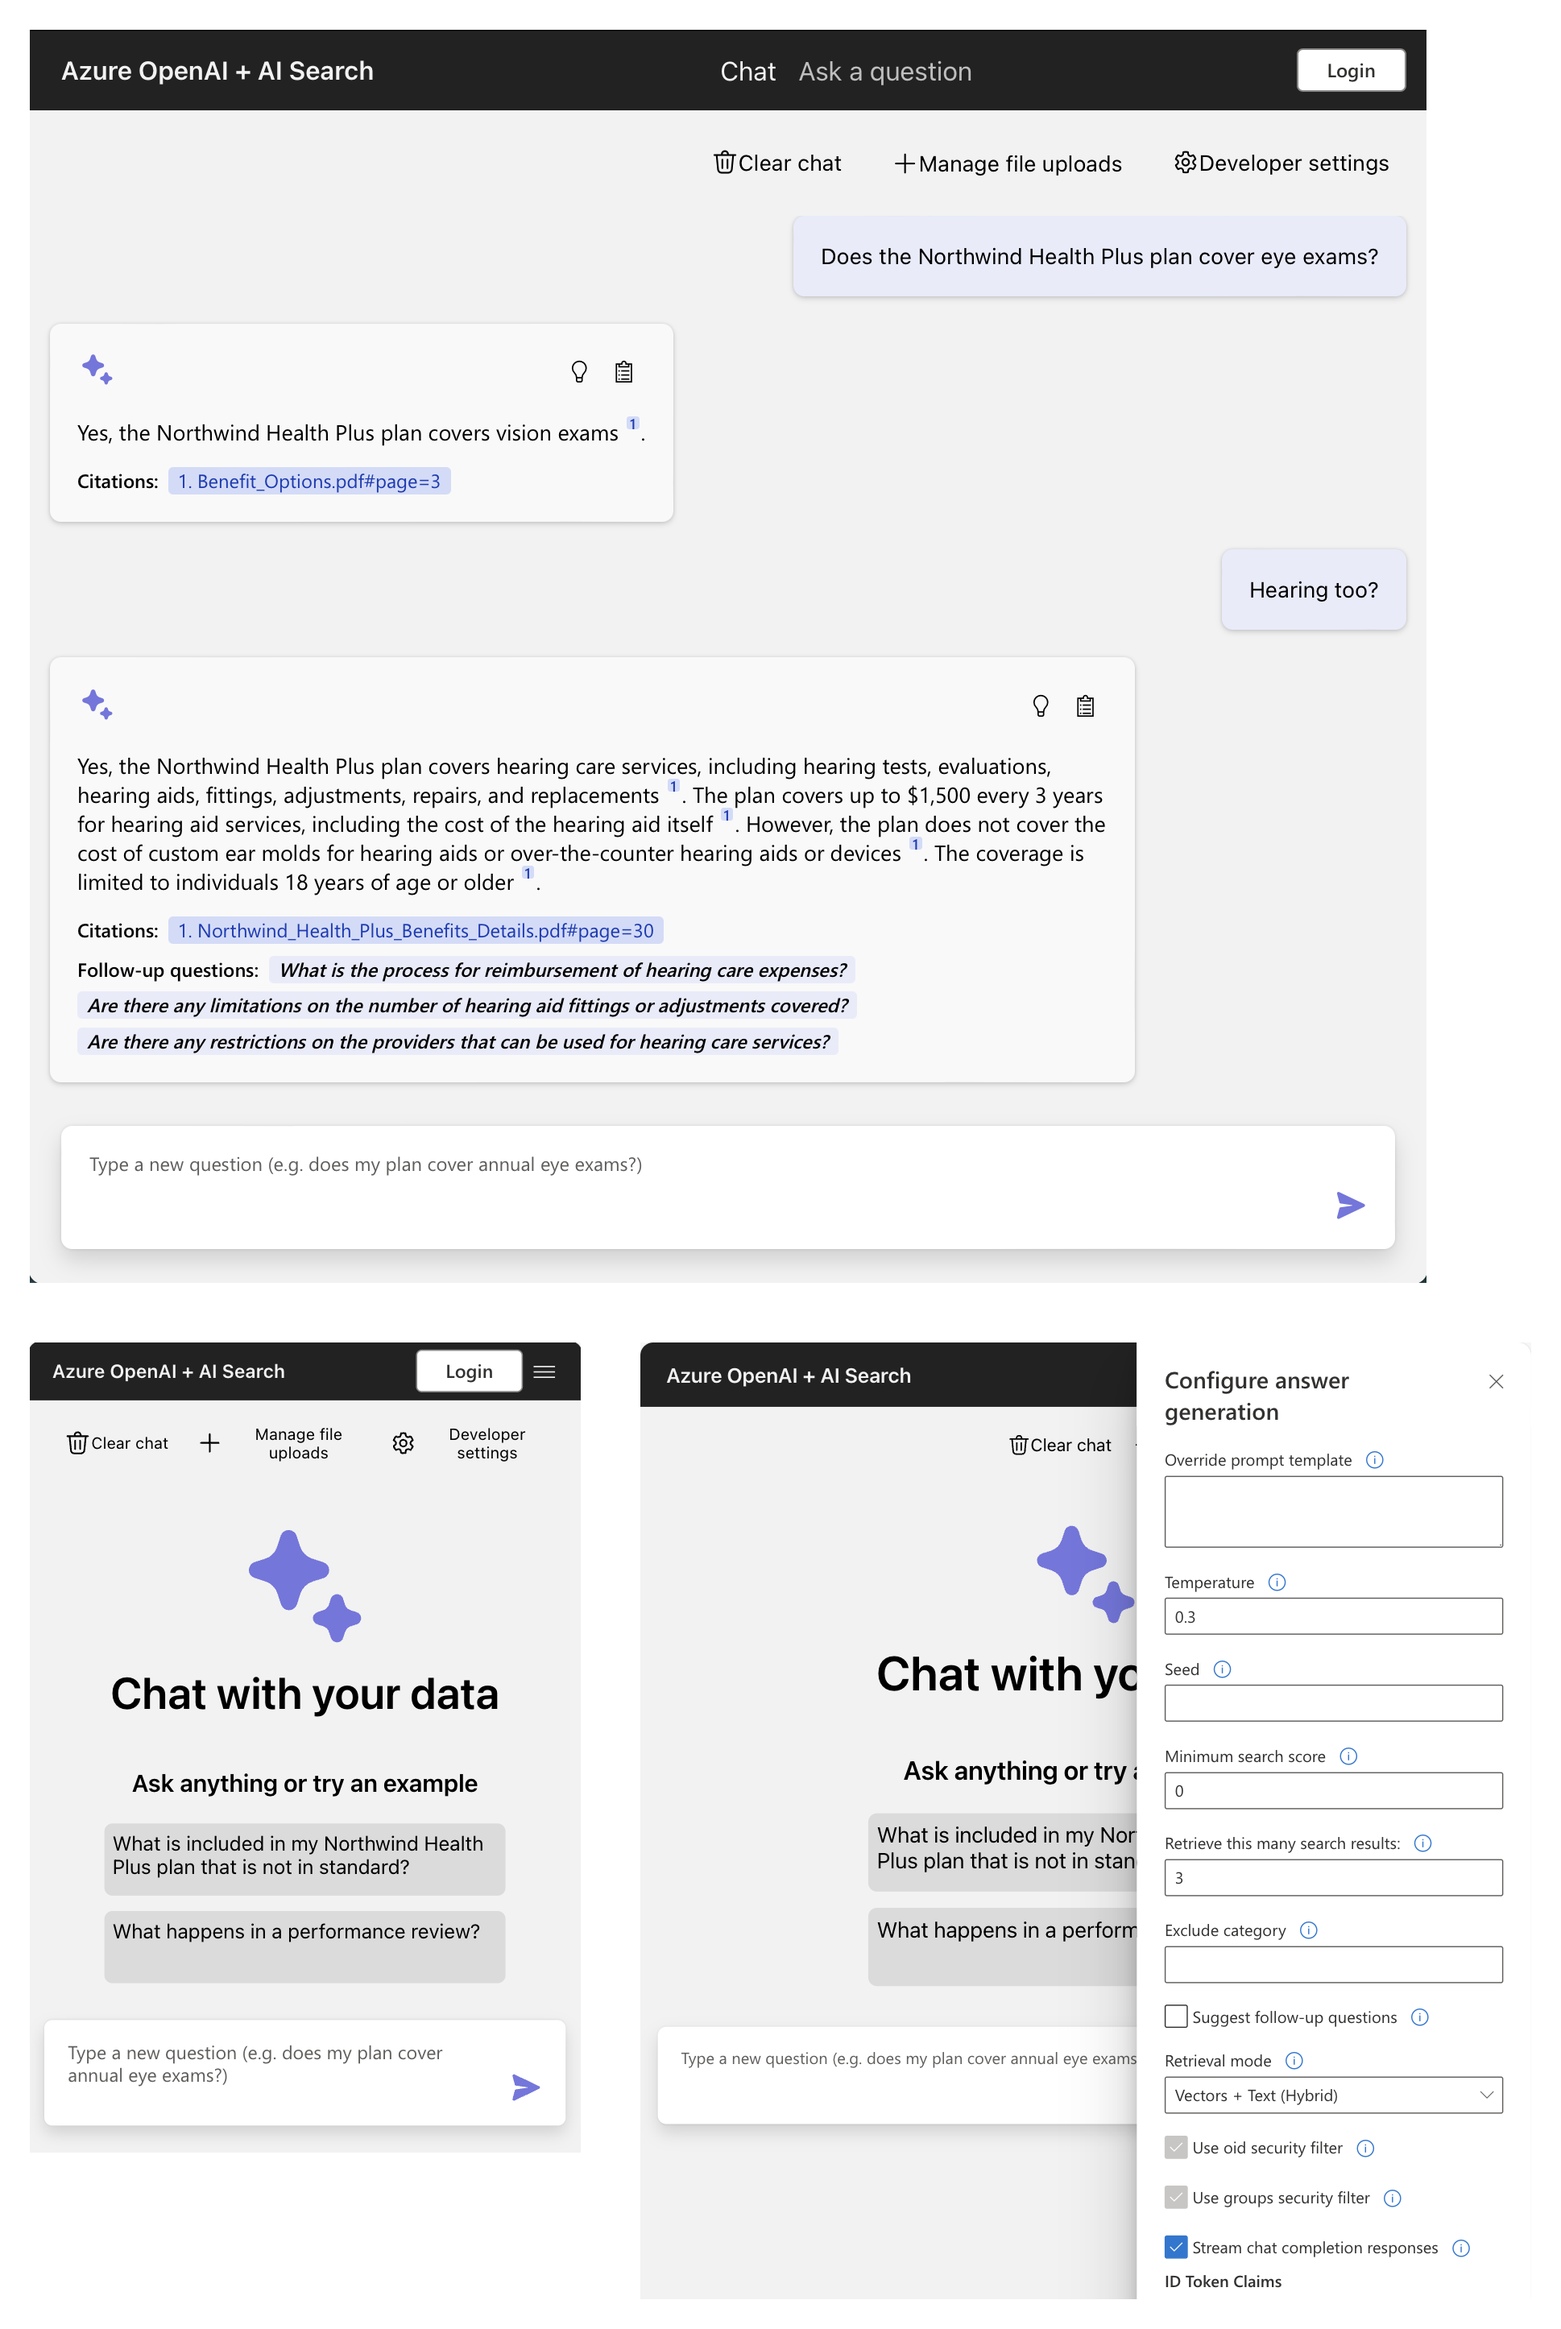
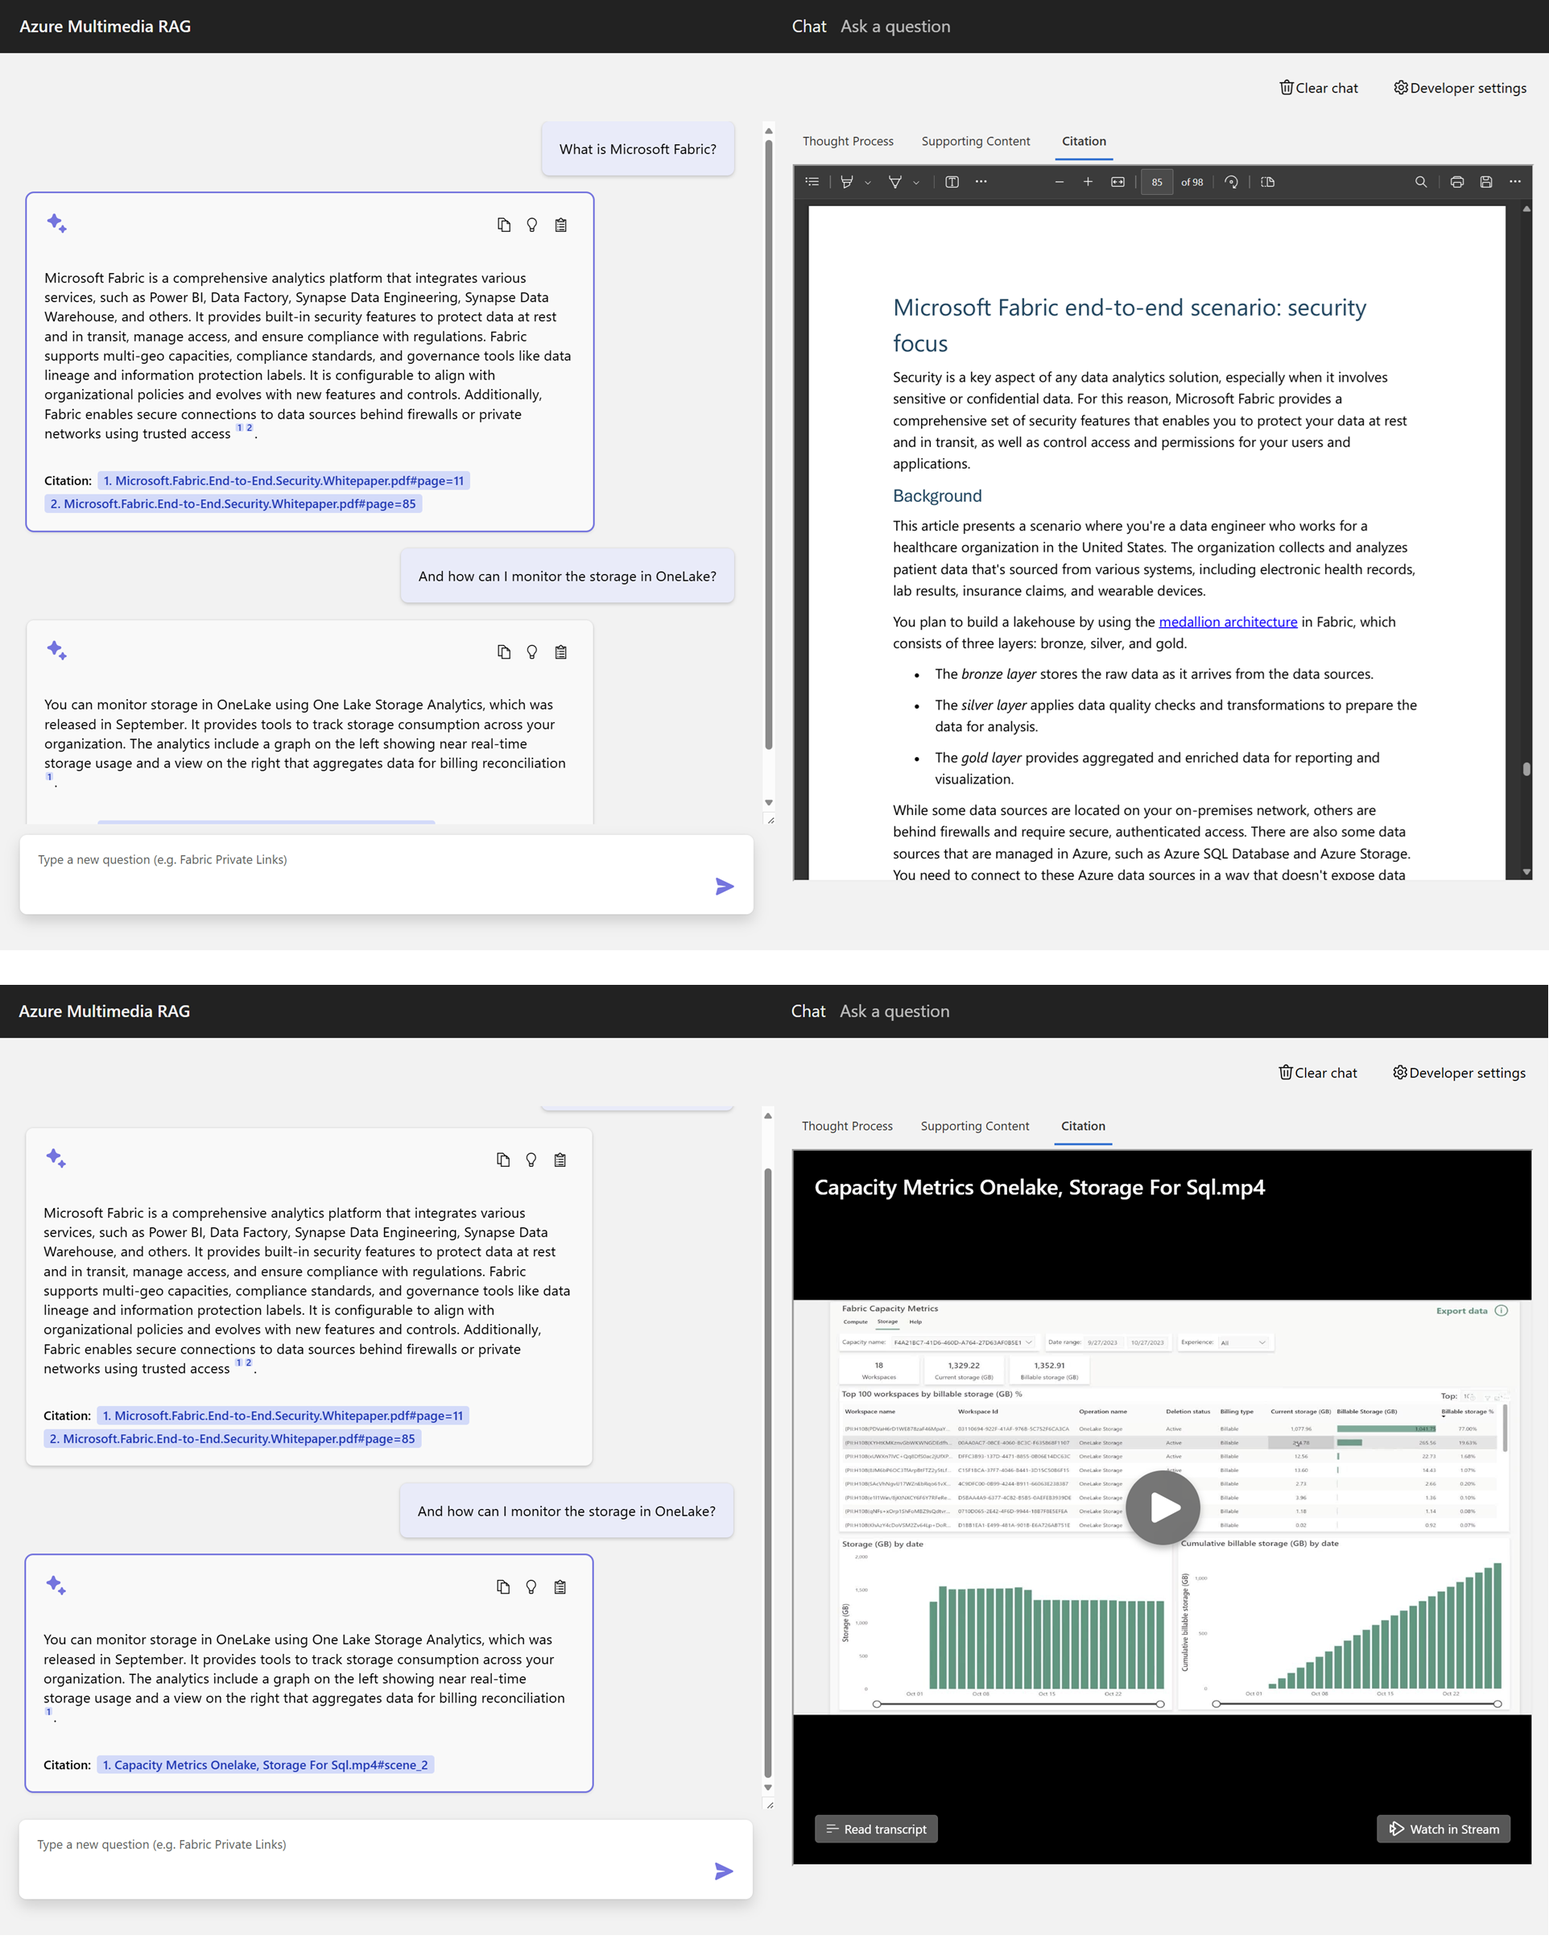
Customized UI

Changed region(s): [[0.0, 0.0, 1.0, 0.9901], [0.0312, 0.1238, 0.4054, 0.2785], [0.0, 0.9592, 0.4054, 0.9901]]

diff --git a/app/backend/prepdocslib/filestrategy.py b/app/backend/prepdocslib/filestrategy.py
@@ -107,10 +107,15 @@ class FileStrategy(Strategy):
                     if sections:
                         blob_sas_uris = await self.blob_manager.upload_blob(file)
                         blob_image_embeddings: Optional[List[List[float]]] = None
-                        url = videoFile.videoUrl if fileClass == "video" else file.url
+                        masterFile = None
+                        if fileClass == "video":
+                            url = videoFile.videoUrl
+                            masterFile = videoFile.videoName
+                        else:
+                            url = file.url
                         if self.image_embeddings and blob_sas_uris:
                             blob_image_embeddings = await self.image_embeddings.create_embeddings(blob_sas_uris)
-                        await search_manager.update_content(sections, blob_image_embeddings, url=url, masterFile=videoFile.videoName)
+                        await search_manager.update_content(sections, blob_image_embeddings, url=url, masterFile=masterFile)
                 finally:
                     if file:
                         file.close()

diff --git a/README.md b/README.md
@@ -17,7 +17,7 @@ urlFragment: azure-search-openai-demo
 ---
 -->
 
-# RAG chat app with Azure OpenAI and Azure AI Search (Python)
+# Multimedia RAG chat app with Azure OpenAI and Azure AI Search (Python)
 
 This solution creates a ChatGPT-like frontend experience over your own documents using RAG (Retrieval Augmented Generation). It uses Azure OpenAI Service to access GPT models, and Azure AI Search for data indexing and retrieval.
 
